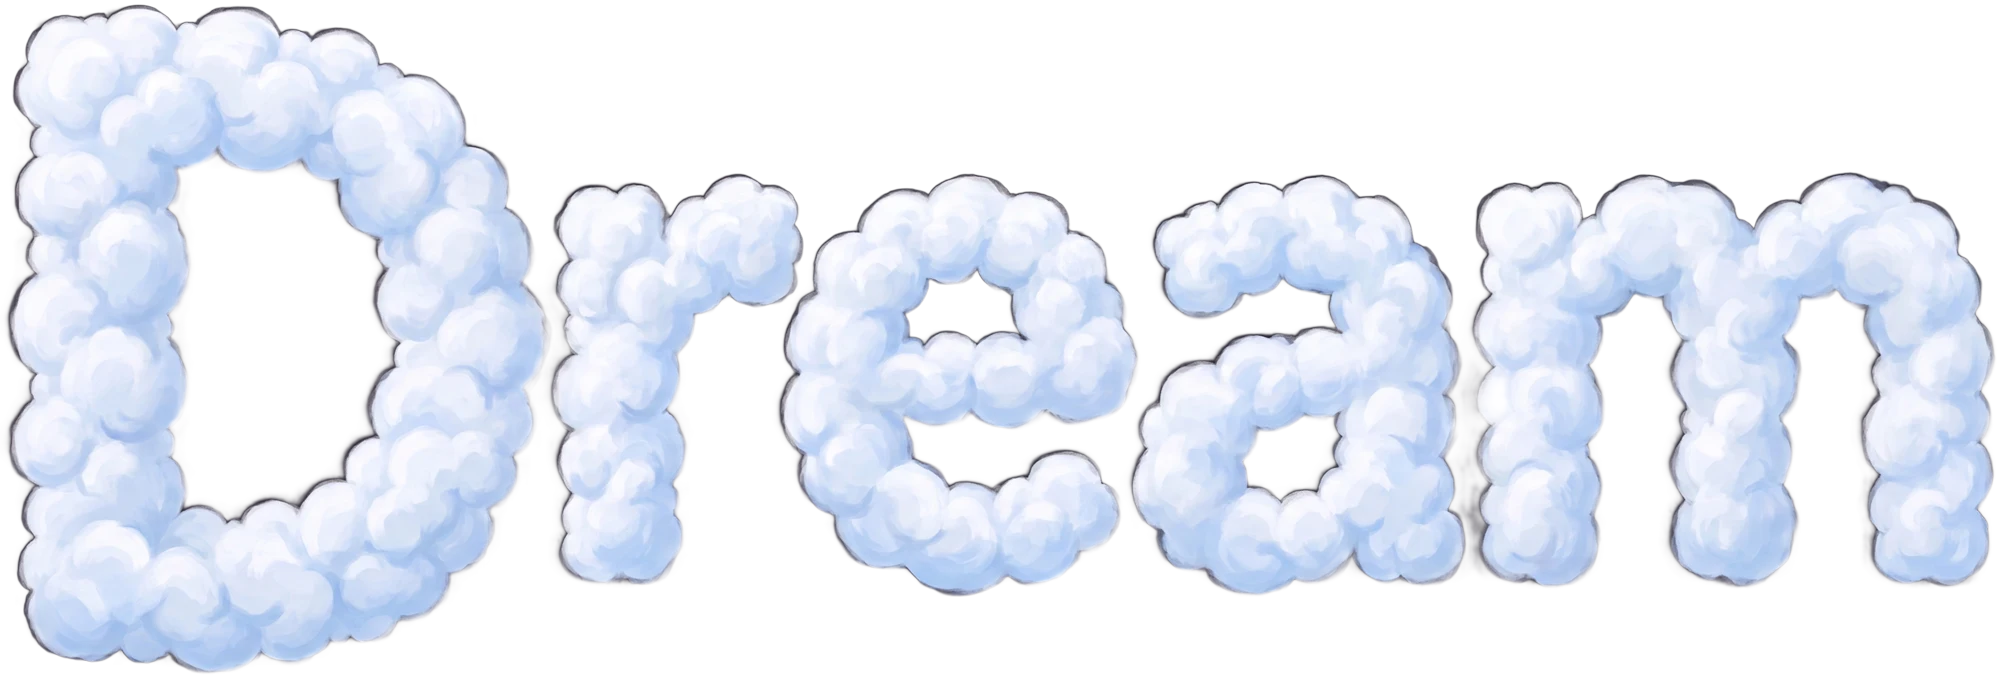
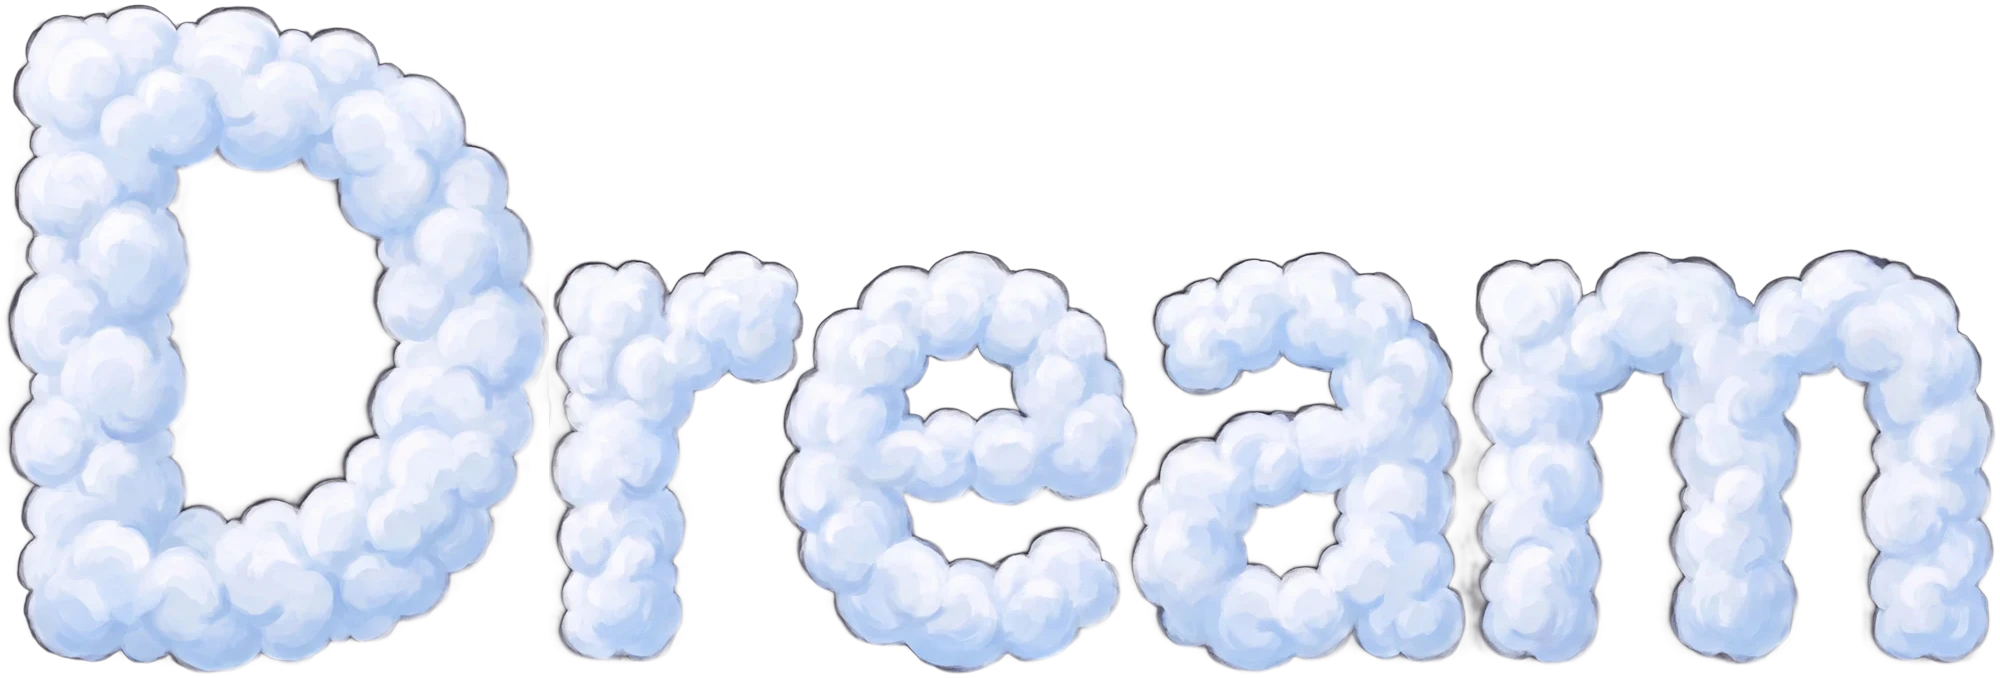
batch 4: the ream lands on the D's own baseline, and the D steps back 17%
The misalignment Nick circled was painted INTO the asset: measured off the
alpha channel, the ream's ink bottomed out 77px above the D's (596 vs 673 in
the 2000x678 file) - it hung from the middle of the D, exactly as he said.
No CSS could touch it. Fixed in the pixels: the image is split at the D/r
gap (x549) and the ream columns shifted down 77px. Verified after: D bottom
673, ream bottom 673. One bottom line for D, ream and ign everywhere the
word appears - nav, entrance, footer, OG card.

D size: batch 3's 1.23em read too big to Nick. 1.23 x 0.83 = 1.02em inks the
D at 75% of the S - clearly bigger than the original 64%, clearly under the
S. IMG_H, ASPECT and D_EDGE are now exported: the entrance renders its own
transform-only mark and must share these exact numbers.

Changed region(s): [[0.248, 0.2478, 1.0, 0.9912]]

diff --git a/src/components/Lockup.tsx b/src/components/Lockup.tsx
@@ -10,8 +10,10 @@
 // cloud letters that emerge are the real ones, perfectly registered.
 import { useReducedMotionSafe } from '../lib/hooks'
 
-const ASPECT = 2000 / 678        // cloud-dream.webp
-const D_EDGE = 0.2745            // the D/r gap, as a fraction of the full word
+// Exported: the entrance renders its own transform-only mark (Bennett principle — zero
+// layout animation) and must share these exact numbers or the two marks drift apart.
+export const ASPECT = 2000 / 678        // cloud-dream.webp
+export const D_EDGE = 0.2745            // the D/r gap, as a fraction of the full word
 
 /**
  * How tall the cloud word is set, in em. This is the D/S balance knob, and it was measured,
@@ -21,11 +23,12 @@ const D_EDGE = 0.2745            // the D/r gap, as a fraction of the full word
  *
  *   D ink = IMG_H × 660/678      S ink = 1.45 × 0.920 = 1.334em
  *
- * At 1.23em the D inks at 1.197em, i.e. **90% of the S** — near-equal with the S still
- * deliberately ahead, which is the balance Nick asked for. Change this one number to retune
- * the whole site: the entrance, the nav and the footer all render this component.
+ * At 1.23em the D inked at 90% of the S; Nick's batch 4 verdict was "too big now — decrease
+ * by 15-20%". 1.23 × 0.83 = 1.02em, which inks the D at 0.995em = **75% of the S**: clearly
+ * bigger than the original 64%, clearly smaller than the S. Change this one number to retune
+ * the whole site: the entrance, the nav and the footer all render this mark.
  */
-const IMG_H = 1.23
+export const IMG_H = 1.02
 const OPEN_W = IMG_H * ASPECT    // the whole word
 const SHUT_W = OPEN_W * D_EDGE   // the D alone
 
